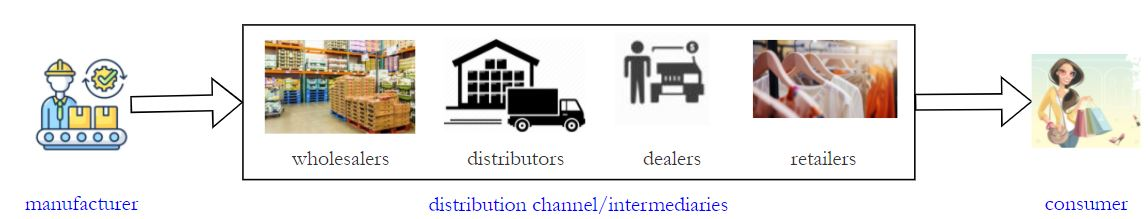
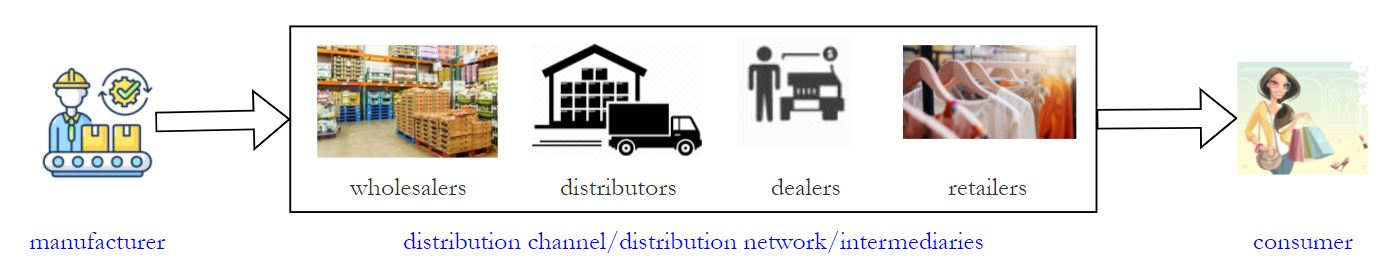
more

diff --git a/index.html b/index.html
@@ -255,8 +255,16 @@ Describe the concept and objectives of advertising, sales promotion, personal se
 - Distribution channels can be viewed as a set of interdependent organizations involved in the process of making a product or service available for consumption to the end consumer
 - Independent organizations - who link manufacturer and consumer are called intermediaries, like distributors, dealers, wholesalers, retailers
 <img src="images/distribution-channel.JPG" alt="" width="50%">
-- For a product to be successful, its very important that it is communicated in right Way, Place, Time and People
-
+- For a product to be successful, its very important that it is communicated in right Way, right Place, right Time and right People
+- Benefits of distribution channels
+    # Reaching customers easily
+    # Increase in customer base
+    # Less expenditure
+    # Market Knowledge
+    # Bridging the gaps
+    # Improved Efficiency
+    # Reaching to international customers
+- Functions performed by the distribution channels/intermediaries
 
 <hr>
 
